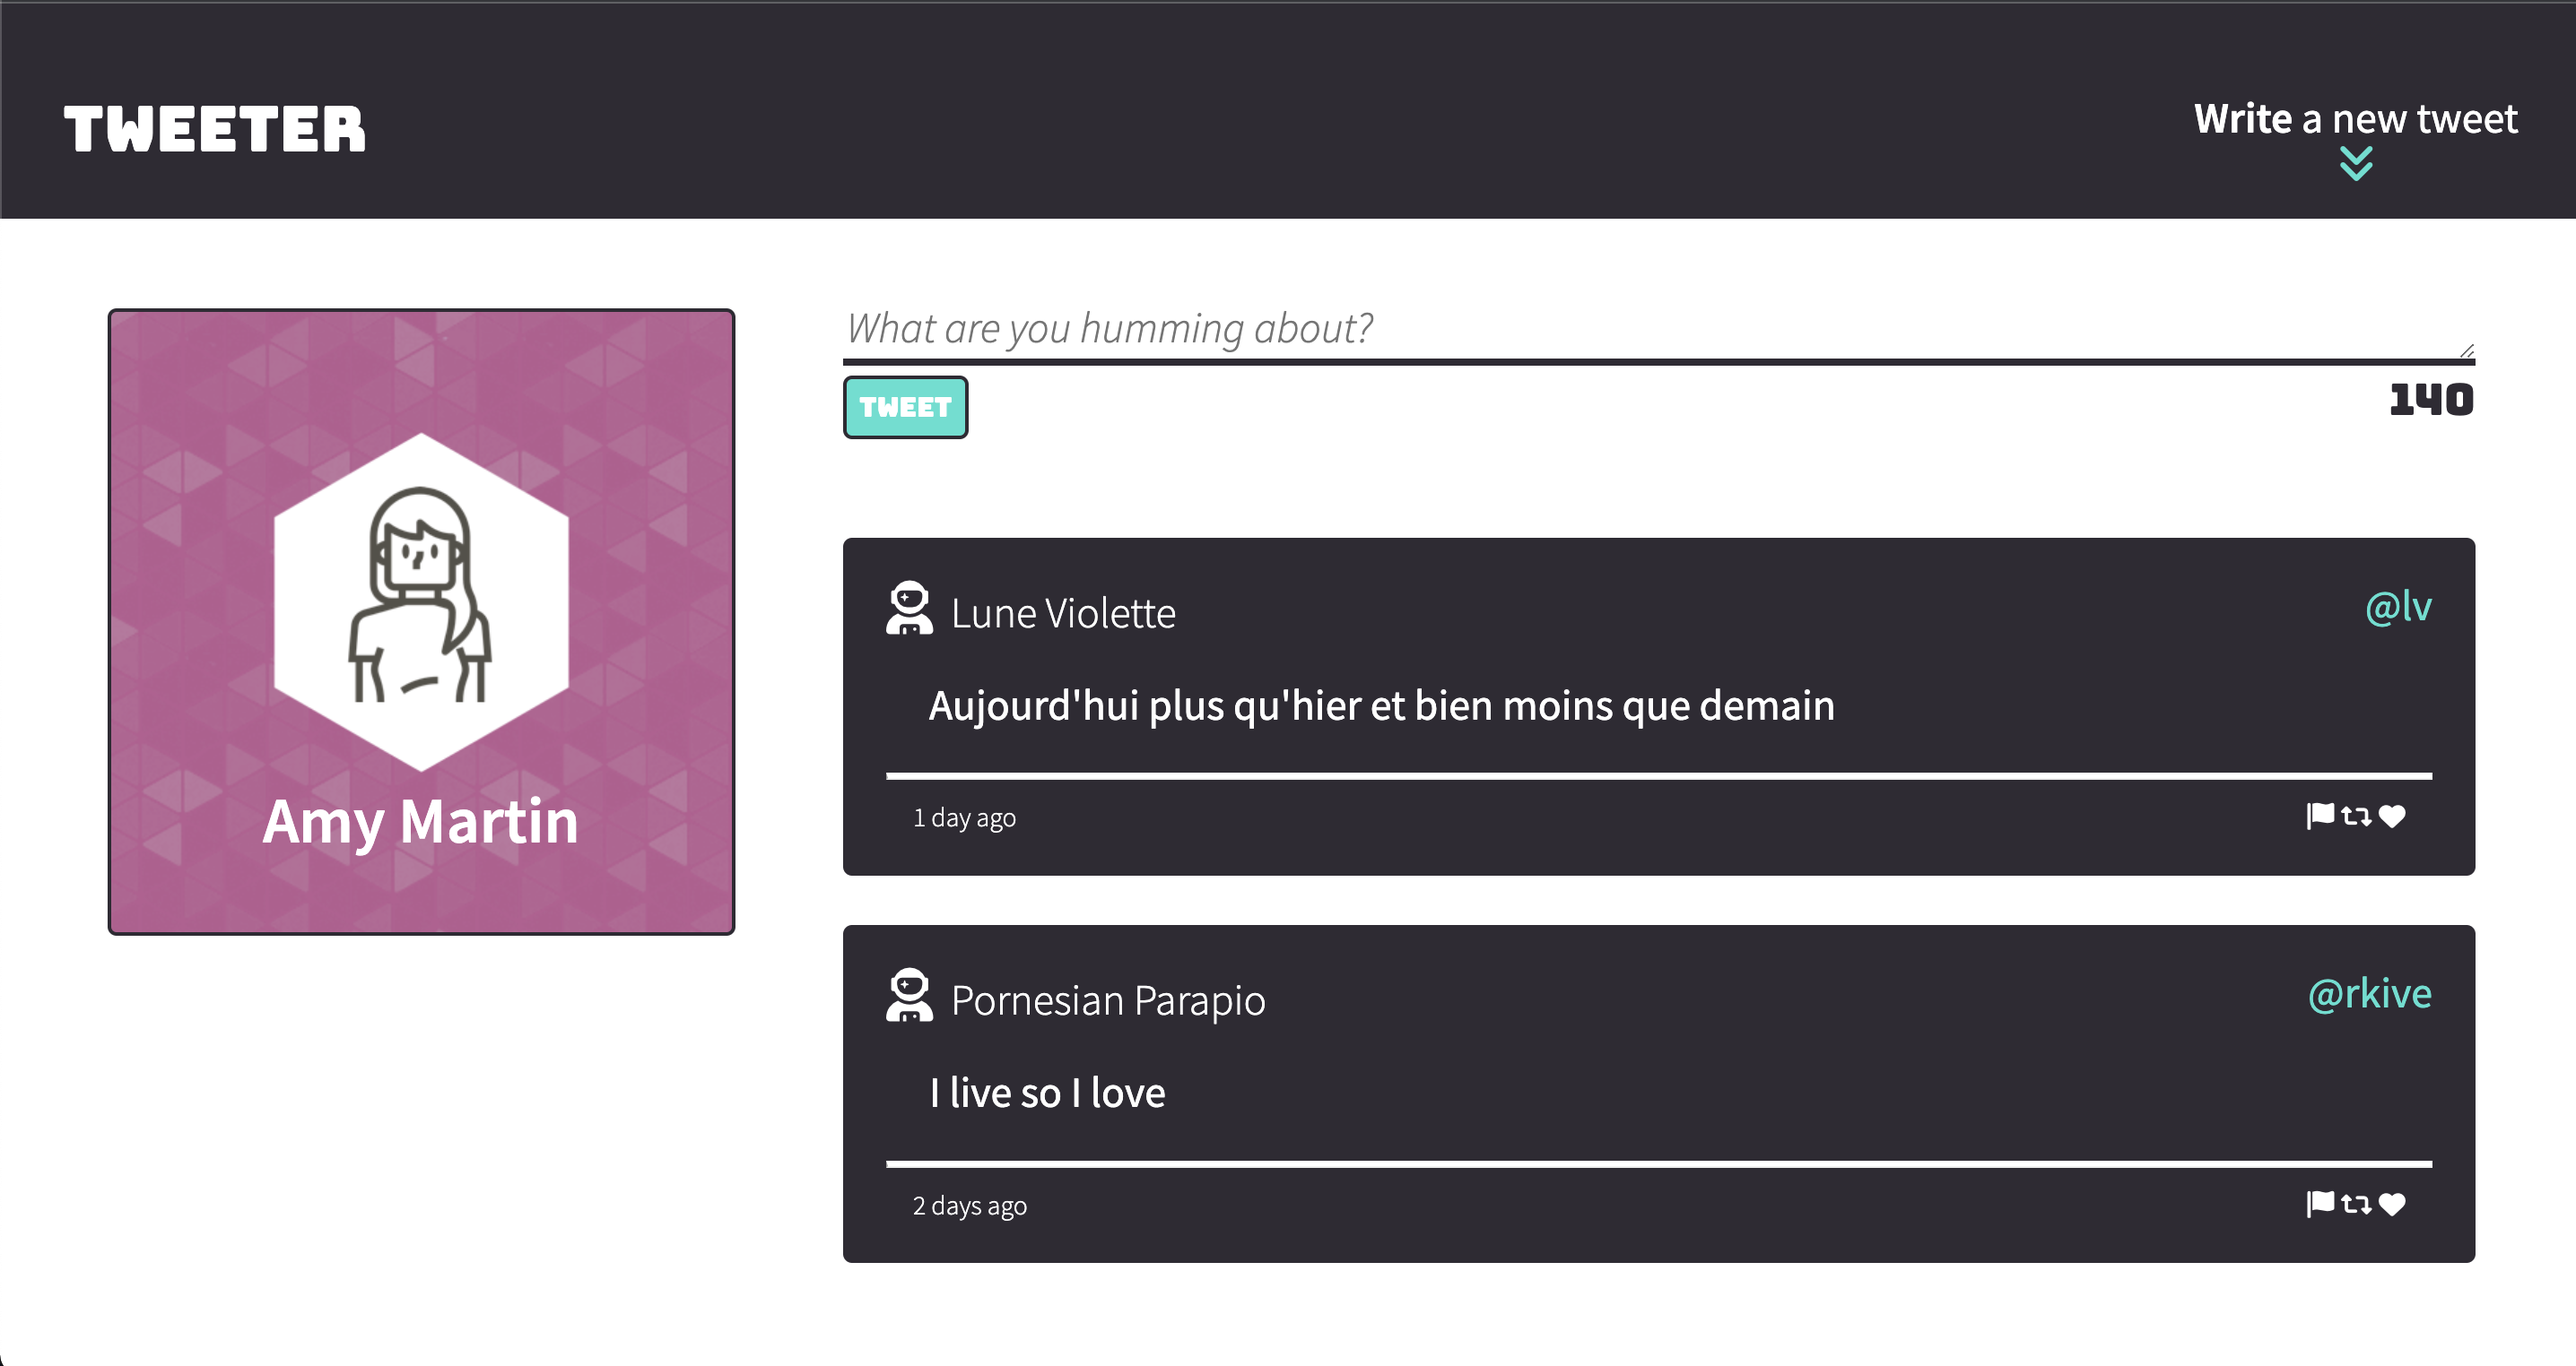
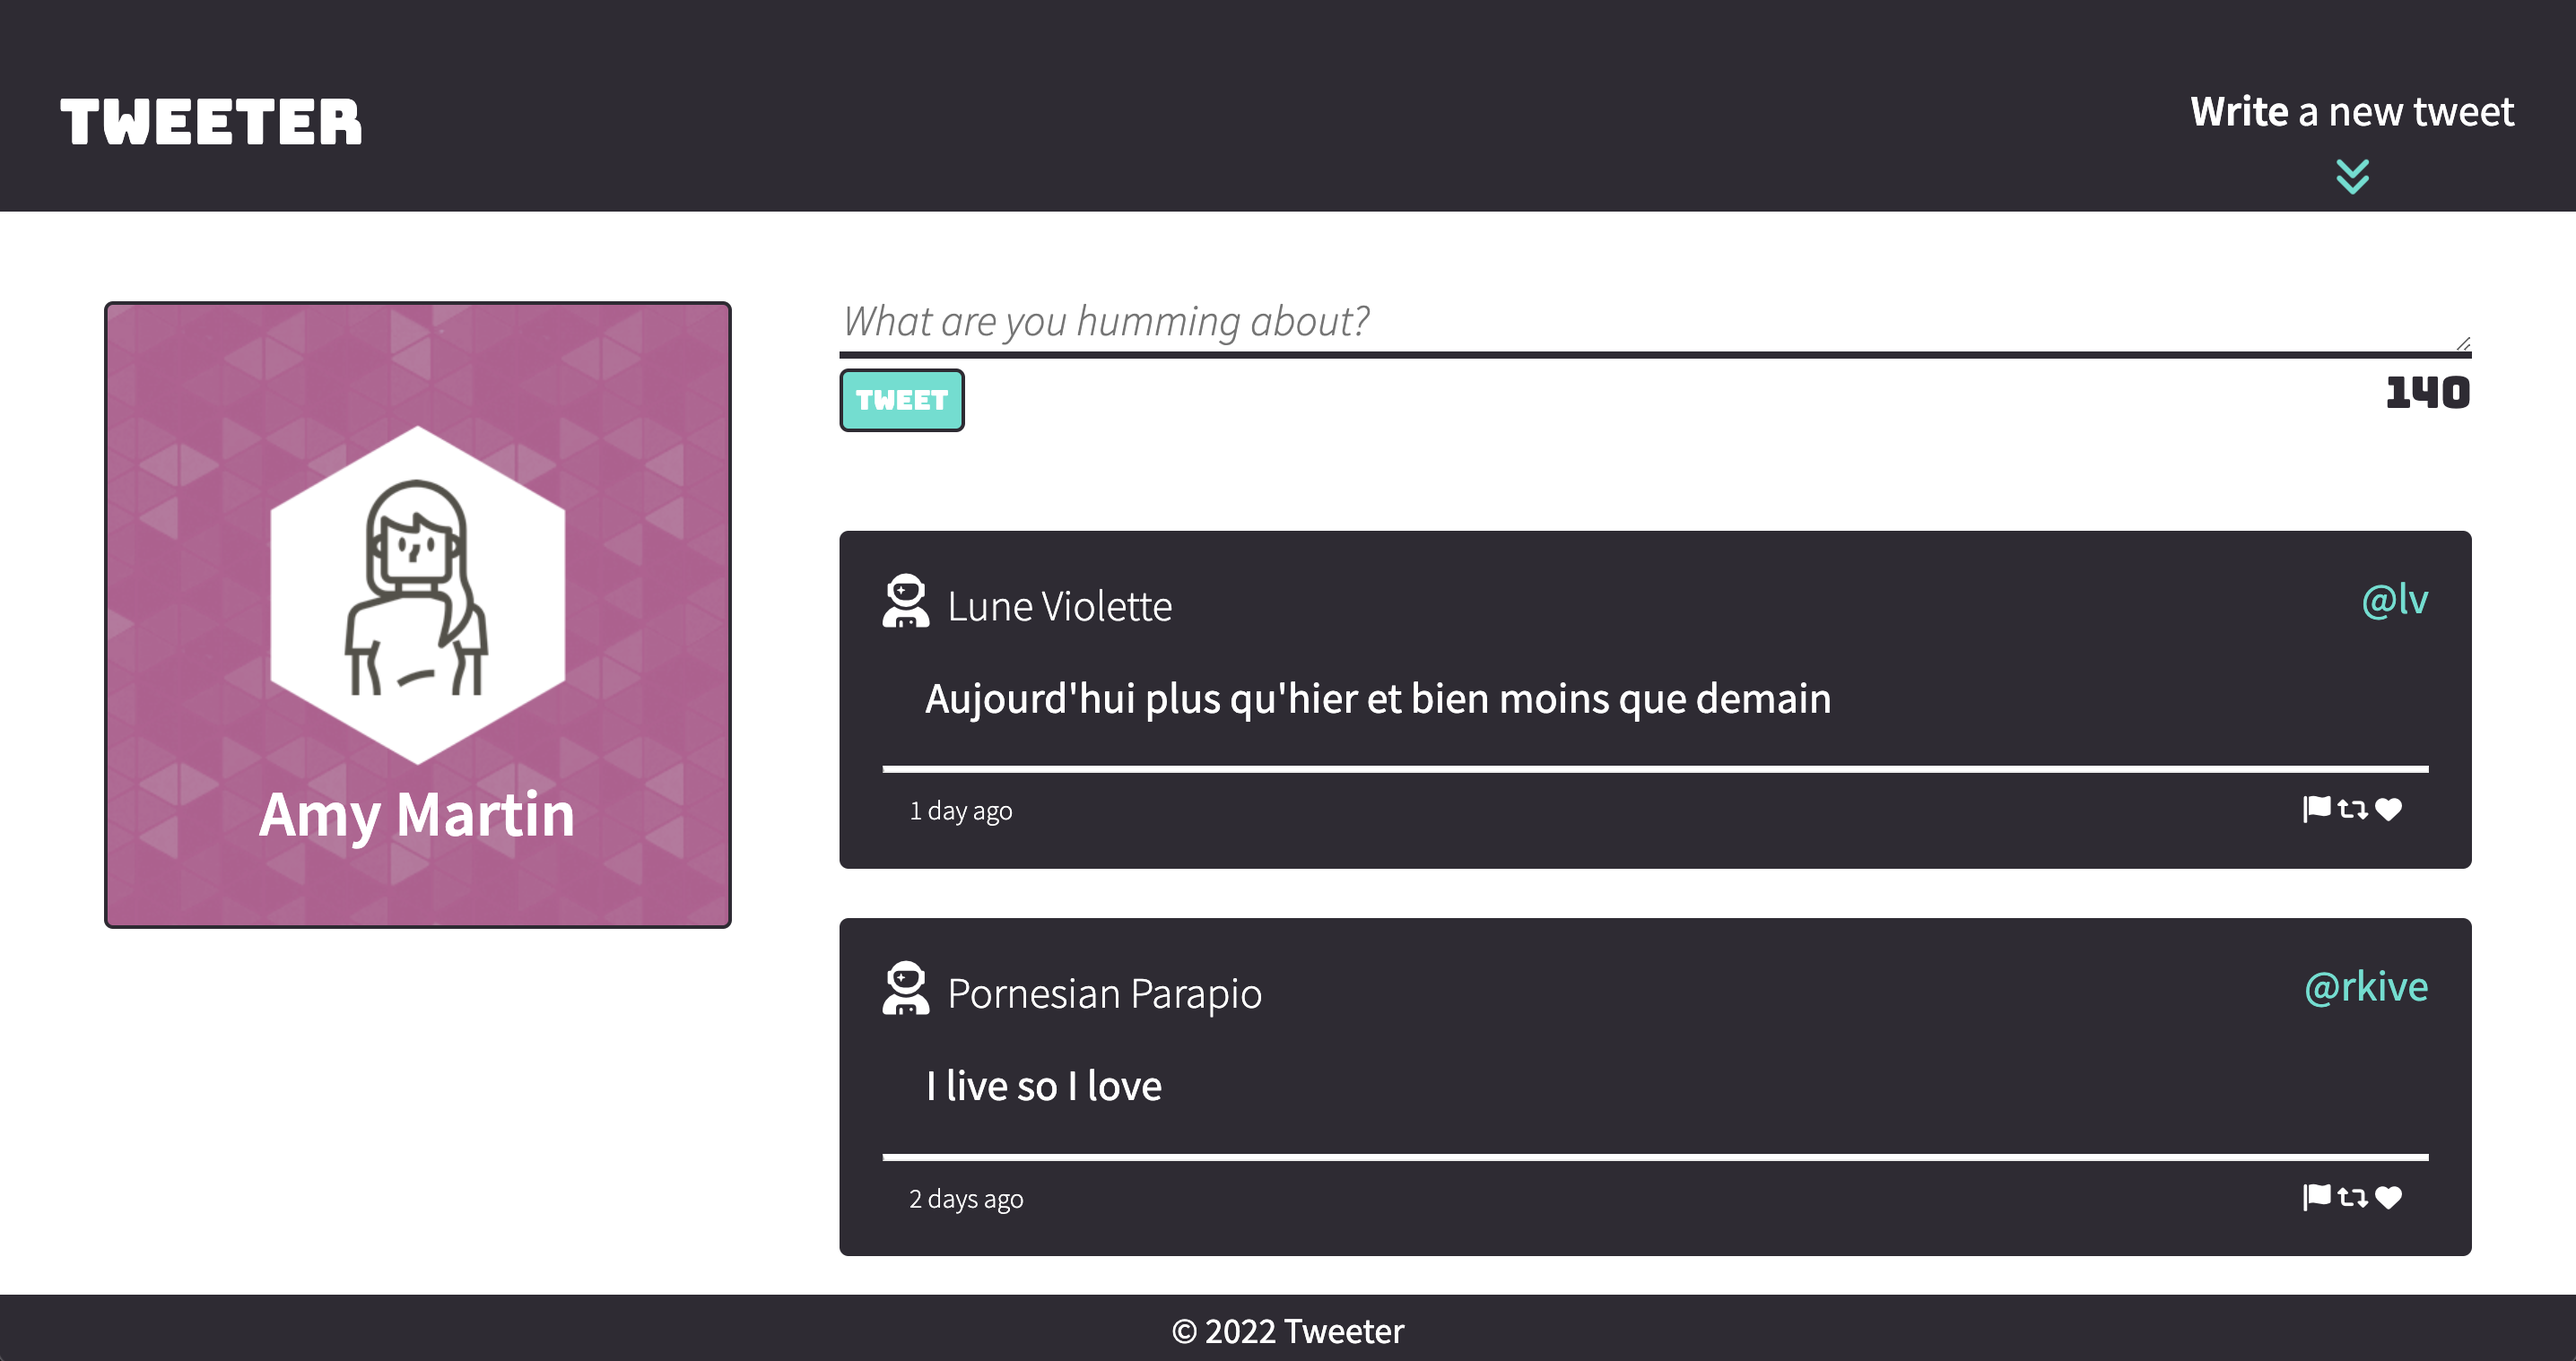
Changed desktop.png image

diff --git a/public/index.html b/public/index.html
@@ -73,10 +73,10 @@
     </main>
 
     <!-- Footer -->
-    <!-- <footer id="Footer">
+    <footer id="Footer">
       <div>
         © 2022 Tweeter
       </div>
-    </footer> -->
+    </footer>
   </body>
 </html>
